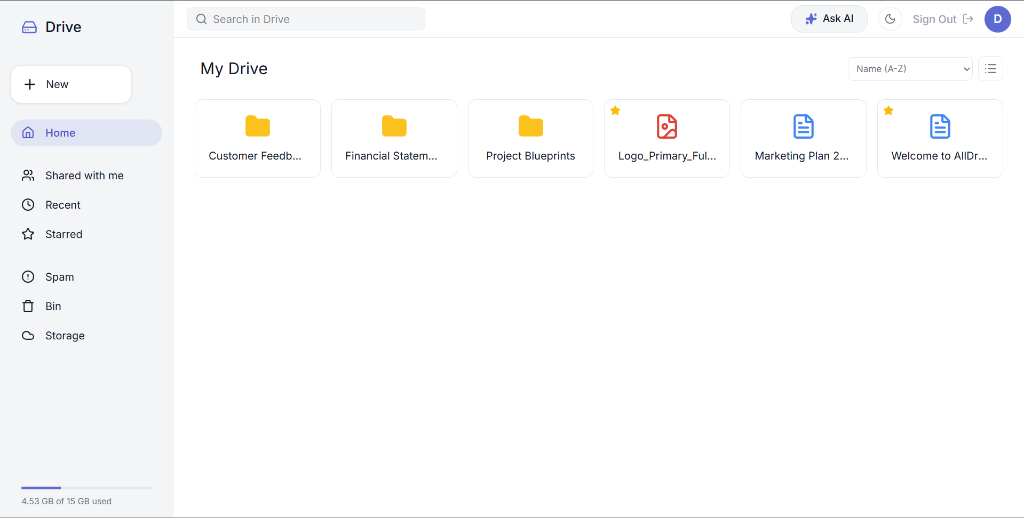
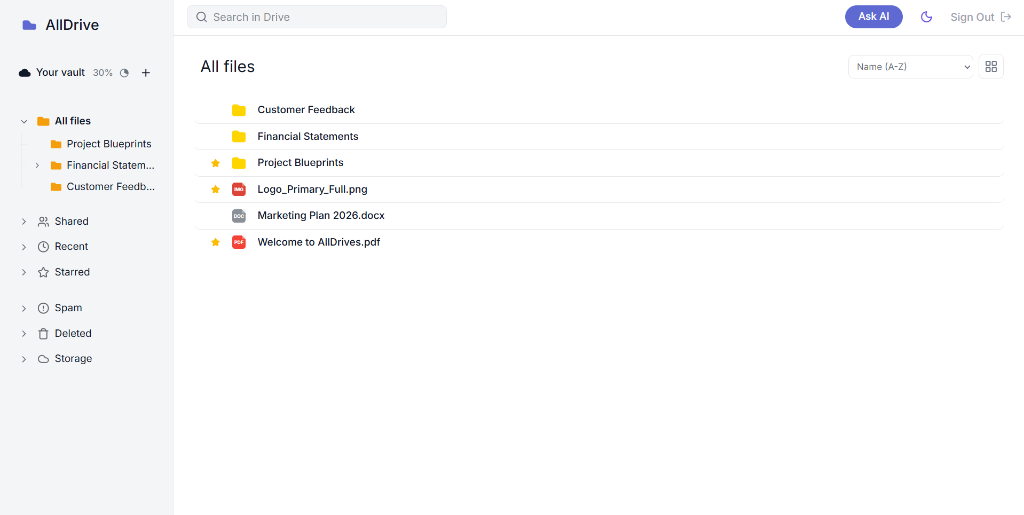
Kushagra dev (#58)
* Update page.jsx

* Import layout components and AnimatePresence

Update src/app/page.jsx to add useState/useEffect and AnimatePresence from framer-motion, and import Header, Main, and Footer components. Prepares the page to manage client-side state and mount layout components with presence animations.

* Mobile-friendly cursor & clicks for project cards

Make project cards usable on touch devices: move the global .project-row-card { cursor: none } into a min-width:501px media query and restore cursor styles for <=500px, ensuring links/buttons/image container show pointer on mobile. Update Main.jsx to initialize window width safely for SSR, set actual width on mount, and derive isMobile to components. ProjectCard now suppresses the hover tooltip on mobile, uses pointer cursor, handles clicks to open the live link only on mobile, and stops propagation on action clicks. These changes preserve the desktop aesthetic (hidden cursor) while restoring expected touch behavior and accessibility on mobile devices.

* Add dynamic Open Graph image component

Introduce an edge-runtime Open Graph image generator using Next.js ImageResponse (src/app/opengraph-image.jsx). Exports alt, size, contentType and composes a programmatic PNG with three stylized lines for the portfolio header. Remove the previous static opengraph-image.png in favor of this maintainable, dynamic JSX-based OG image.

* Update project.js

* Update Footer.jsx

* Replace favicon.ico with icon.png
[…]

diff --git a/src/data/project.js b/src/data/project.js
@@ -44,32 +44,8 @@ export const projectsData = [
     learned:
       "Designed a service layer architecture to decouple Next.js page components from Zustand stores, navigated the Next.js 16 App Router landscape, and integrated Tailwind v4 seamlessly with CSS Modules.",
     links: {
-      live: "https://crm-delta-five-60.vercel.app/loyalty",
+      live: "https://crm-delta-five-60.vercel.app/",
       github: "https://github.com/19Kushagra0/crm",
-    },
-  },
-  {
-    id: 14,
-    number: "13",
-    category: "RAG",
-    title: "Music DNA",
-    description:
-      "AI-powered Spotify Analyzer  using Spotify OAuth, allowing users to securely connect their Spotify account, GENERATE PLAYLIST and explore their listening habits, music taste, and analytics in an interactive way.",
-    image: "/projects/spotify.png",
-    tags: ["Next.js", "Spotify API", "OAuth"],
-    features: [
-      "Secure Spotify OAuth Flow",
-      "Top Tracks & Artists visual insights",
-      "AI-generated playlists based on mood input",
-      "Interactive audio visualization",
-    ],
-    problem: "Get deeper insights into your listening habits and music trends while instantly generating personalized AI-powered playlists based on your mood and preferences.",
-
-    learned:
-      "Working with rate-limited third-party APIs and managing secure token refresh cycles. It also vastly improved my skills in data visualization and handling complex audio features.",
-    links: {
-      live: "https://spotify-analizer.vercel.app/",
-      github: "https://github.com/19Kushagra0/spotify-analizer",
     },
   },
   {
@@ -94,6 +70,30 @@ export const projectsData = [
     links: {
       live: "https://alldrives-three.vercel.app/",
       github: "https://github.com/19Kushagra0/alldrives",
+    },
+  },
+  {
+    id: 14,
+    number: "13",
+    category: "RAG",
+    title: "Music DNA",
+    description:
+      "AI-powered Spotify Analyzer  using Spotify OAuth, allowing users to securely connect their Spotify account, GENERATE PLAYLIST and explore their listening habits, music taste, and analytics in an interactive way.",
+    image: "/projects/spotify.png",
+    tags: ["Next.js", "Spotify API", "OAuth"],
+    features: [
+      "Secure Spotify OAuth Flow",
+      "Top Tracks & Artists visual insights",
+      "AI-generated playlists based on mood input",
+      "Interactive audio visualization",
+    ],
+    problem: "Get deeper insights into your listening habits and music trends while instantly generating personalized AI-powered playlists based on your mood and preferences.",
+
+    learned:
+      "Working with rate-limited third-party APIs and managing secure token refresh cycles. It also vastly improved my skills in data visualization and handling complex audio features.",
+    links: {
+      live: "https://spotify-analizer.vercel.app/",
+      github: "https://github.com/19Kushagra0/spotify-analizer",
     },
   },
   {
@@ -150,7 +150,7 @@ export const projectsData = [
   {
     id: 9,
     number: "08",
-    category: "RAG",
+    category: "Full Stack",
     title: "MailClean (Gmail Dashboard)",
     description:
       "A simple gmail dashboard get access of your gmail analytics and actions at one place",
@@ -185,16 +185,16 @@ export const projectsData = [
     },
   },
   {
-    id: 4,
+    id: 1,
     number: "03",
     category: "Pixel Perfect",
-    title: "X Homepage ",
+    title: "Awwwards Homepage ",
     description:
-      "A pixel-perfect recreation of the X (Twitter) UI with a fully responsive design.",
-    image: "/projects/x.png",
+      "A pixel-perfect recreation of the Awwwards Homepage with a fully responsive design.",
+    image: "/projects/awwwards.png",
     links: {
-      live: "https://x-homepage-with-crud.vercel.app/",
-      github: "https://github.com/19Kushagra0/x-homepage-with-crud",
+      live: "https://awwwards-homepage-clone.vercel.app/",
+      github: "https://github.com/19Kushagra0/awwwards-homepage-clone",
     },
   },
   {
@@ -224,16 +224,16 @@ export const projectsData = [
     },
   },
   {
-    id: 1,
+    id: 4,
     number: "00",
     category: "Pixel Perfect",
-    title: "Awwwards Homepage ",
+    title: "X Homepage ",
     description:
-      "A pixel-perfect recreation of the Awwwards Homepage with a fully responsive design.",
-    image: "/projects/awwwards.png",
+      "A pixel-perfect recreation of the X (Twitter) UI with a fully responsive design.",
+    image: "/projects/x.png",
     links: {
-      live: "https://awwwards-homepage-clone.vercel.app/",
-      github: "https://github.com/19Kushagra0/awwwards-homepage-clone",
+      live: "https://x-homepage-with-crud.vercel.app/",
+      github: "https://github.com/19Kushagra0/x-homepage-with-crud",
     },
   },
 ];

diff --git a/src/components/Main.jsx b/src/components/Main.jsx
@@ -544,6 +544,15 @@ const CATEGORY_GRADIENTS = {
 const DEFAULT_GRADIENT = "#e8e8e8";
 
 function ProjectCard({ project, displayNumber, onOpenDetails, isMobile }) {
+  const [imageLoaded, setImageLoaded] = useState(false);
+  const imgRef = useRef(null);
+
+  useEffect(() => {
+    if (imgRef.current && imgRef.current.complete) {
+      setImageLoaded(true);
+    }
+  }, []);
+
   return (
     <div
       className="project-row-card group"
@@ -748,21 +757,43 @@ function ProjectCard({ project, displayNumber, onOpenDetails, isMobile }) {
         }}
       >
         {project.image ? (
-          <img
-            src={project.image}
-            alt={project.title}
-            className="project-card-image"
-            style={{
-              maxWidth: "90%",
-              maxHeight: "85%",
-              width: "auto",
-              height: "auto",
-              objectFit: "contain",
-              borderRadius: 12,
-              boxShadow: "0 12px 36px rgba(0, 0, 0, 0.4)",
-              pointerEvents: "none",
-            }}
-          />
+          <>
+            {!imageLoaded && (
+              <motion.div
+                initial={{ opacity: 0.5 }}
+                animate={{ opacity: 1 }}
+                transition={{ repeat: Infinity, duration: 0.8, repeatType: "reverse", ease: "easeInOut" }}
+                style={{
+                  position: "absolute",
+                  width: "90%",
+                  height: "85%",
+                  borderRadius: 12,
+                  backgroundColor: "#d4d4d4",
+                  boxShadow: "0 12px 36px rgba(0, 0, 0, 0.1)",
+                }}
+              />
+            )}
+            <img
+              ref={imgRef}
+              src={project.image}
+              alt={project.title}
+              className="project-card-image"
+              onLoad={() => setImageLoaded(true)}
+              onError={() => setImageLoaded(true)}
+              style={{
+                maxWidth: "90%",
+                maxHeight: "85%",
+                width: "auto",
+                height: "auto",
+                objectFit: "contain",
+                borderRadius: 12,
+                boxShadow: "0 12px 36px rgba(0, 0, 0, 0.4)",
+                pointerEvents: "none",
+                opacity: imageLoaded ? 1 : 0,
+                transition: "opacity 0.4s ease",
+              }}
+            />
+          </>
         ) : (
           <div
             style={{
